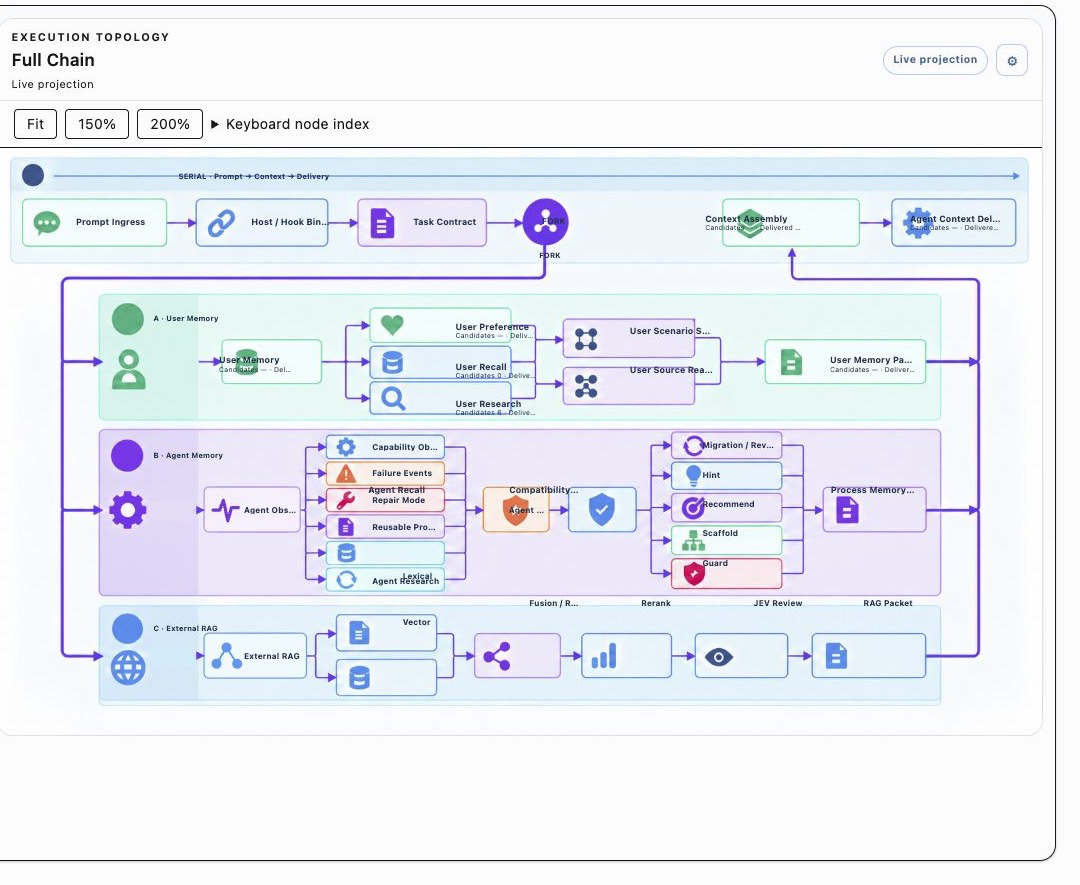
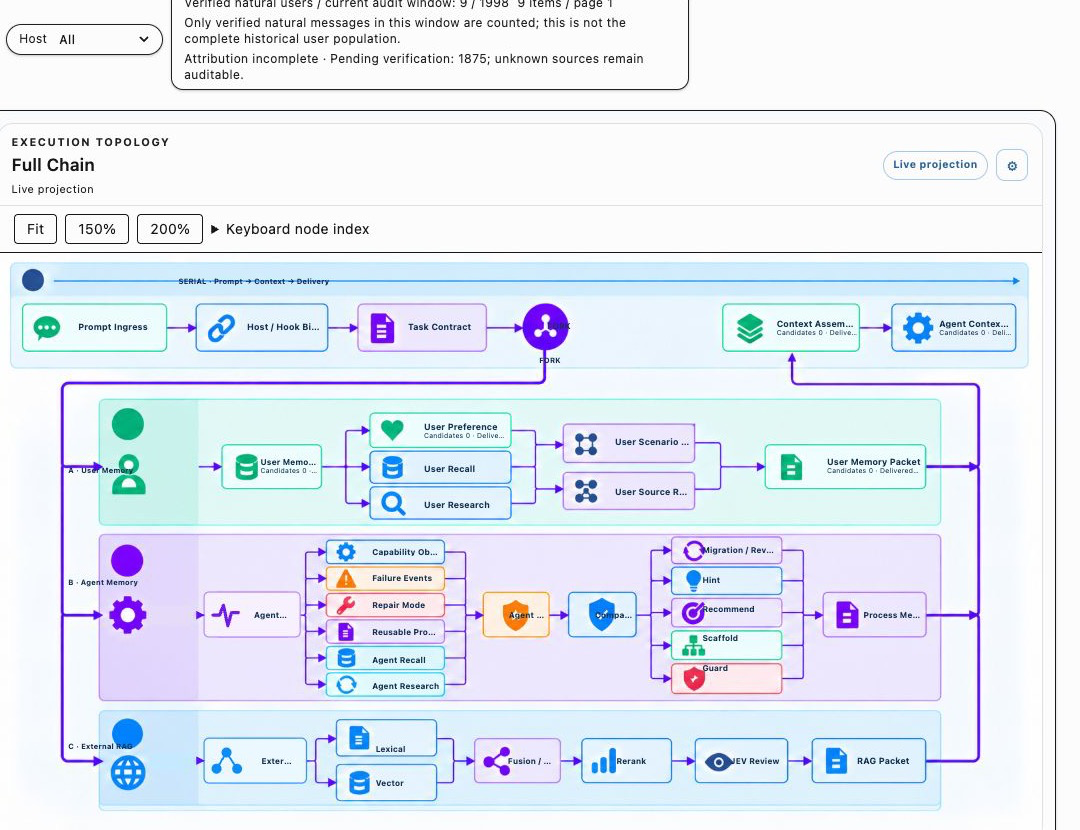
fix: align topology overlays with canonical background

diff --git a/console/src/components/topology-engine-lab.tsx b/console/src/components/topology-engine-lab.tsx
@@ -14,9 +14,10 @@ type Props = { nodes: TopologyNode[]; edges?: unknown[]; english?: boolean };
 type Anchor = { x: number; y: number; width: number; height: number };
 const W = 1672,
   H = 941,
-  STORAGE = "ep-topology-anchors-v7",
-  TEXT_STORAGE = "ep-topology-frame-text-v7",
-  DELETED_STORAGE = "ep-topology-frame-deleted-v7";
+  STORAGE = "ep-topology-anchors-v9",
+  TEXT_STORAGE = "ep-topology-frame-text-v9",
+  DELETED_STORAGE = "ep-topology-frame-deleted-v9",
+  LAYOUT_MARKER = "ep-topology-layout-v9";
 const POS: Record<string, [number, number, number, number]> = {
   prompt: [2.3, 8.7, 13.8, 8],
   binding: [18.9, 8.7, 12.7, 8],
@@ -175,11 +176,14 @@ export function TopologyEngineLab({ nodes, english = false }: Props) {
     []
   );
   useEffect(()=>{
-    if(localStorage.getItem("ep-topology-layout-v8")) return;
-    const original=localStorage.getItem(STORAGE);
-    if(original) localStorage.setItem("ep-topology-anchors-v7-before-layout-v8",original);
-    localStorage.setItem(STORAGE,JSON.stringify(draft));
-    localStorage.setItem("ep-topology-layout-v8","1");
+    if(localStorage.getItem(LAYOUT_MARKER)) return;
+    const old=localStorage.getItem("ep-topology-anchors-v7") || localStorage.getItem("ep-topology-anchors-v8");
+    if(old) localStorage.setItem("ep-topology-anchors-before-layout-v9",old);
+    // v9 deliberately starts from the shipped canonical anchors. Older local
+    // layouts were calibrated against a previous bitmap and can shift labels
+    // away from the current background image.
+    localStorage.setItem(STORAGE,JSON.stringify(anchors));
+    localStorage.setItem(LAYOUT_MARKER,"topology-reference-design-v17:1672x941");
   },[]);
   const labels = useMemo(() => {
     const d = {

diff --git a/console/tests/lib/topology-purpose.test.ts b/console/tests/lib/topology-purpose.test.ts
@@ -4,6 +4,7 @@ import { renderToStaticMarkup } from "react-dom/server";
 import { TopologyEngineLab } from "@/components/topology-engine-lab";
 import { buildTopologySpec, type TopologyBranchSummary } from "@/lib/topology-spec";
 import {summarizeReceiptScopes} from "@/lib/topology-presentation";
+import anchors from "@/lib/topology-anchors.json";
 
 const branch = (stage: string, count: number, extra = {}): TopologyBranchSummary => ({
   status: "delivered", counts: { candidates: 0, returned: count, delivered: count, tokens: 0 },
@@ -13,6 +14,13 @@ const make = (branches = new Map<string, TopologyBranchSummary>()) => buildTopol
 const button = (markup: string, id: string) => markup.split(`data-node-id="${id}"`)[1]?.split("</foreignObject>")[0] || "";
 
 describe("topology node purpose", () => {
+  it("ships anchors in the same coordinate system as the v17 background bitmap", () => {
+    expect(anchors.context).toMatchObject({ x: 69.4, y: 8.7, width: 13.3 });
+    expect(anchors.execution).toMatchObject({ x: 85.4, y: 8.7, width: 12.2 });
+    expect(anchors["user-root"]).toMatchObject({ x: 21.4, y: 32.6 });
+    expect(anchors["rag-root"]).toMatchObject({ x: 21.4, y: 82.6 });
+    expect(anchors.context.x).not.toBe(61.5);
+  });
   it.each([false,true])("opens the entire topology at fit width by default (english=%s)", (english) => {
     const markup=renderToStaticMarkup(createElement(TopologyEngineLab,{nodes:make().nodes,english}));
     const fitLabel=english ? "Fit" : "全图";
